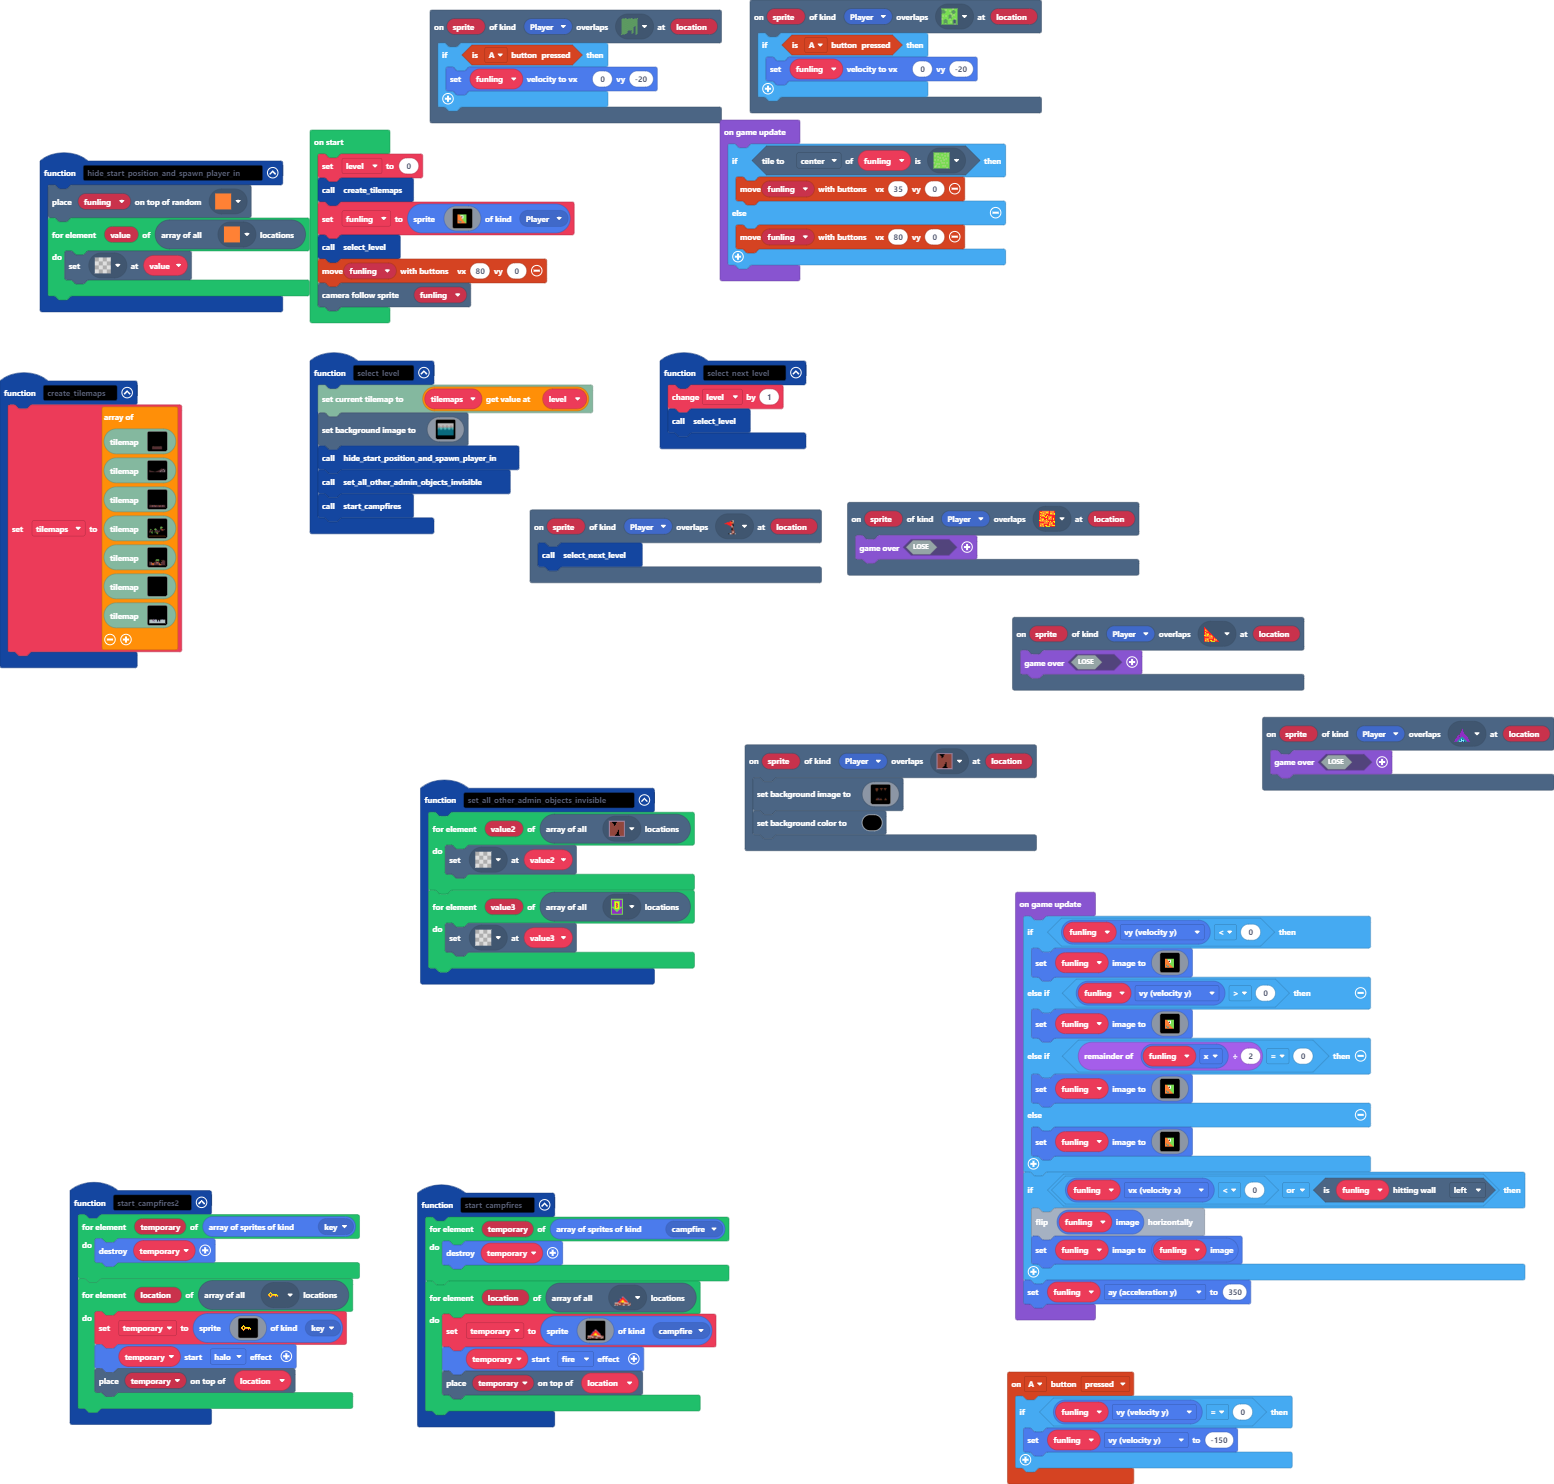
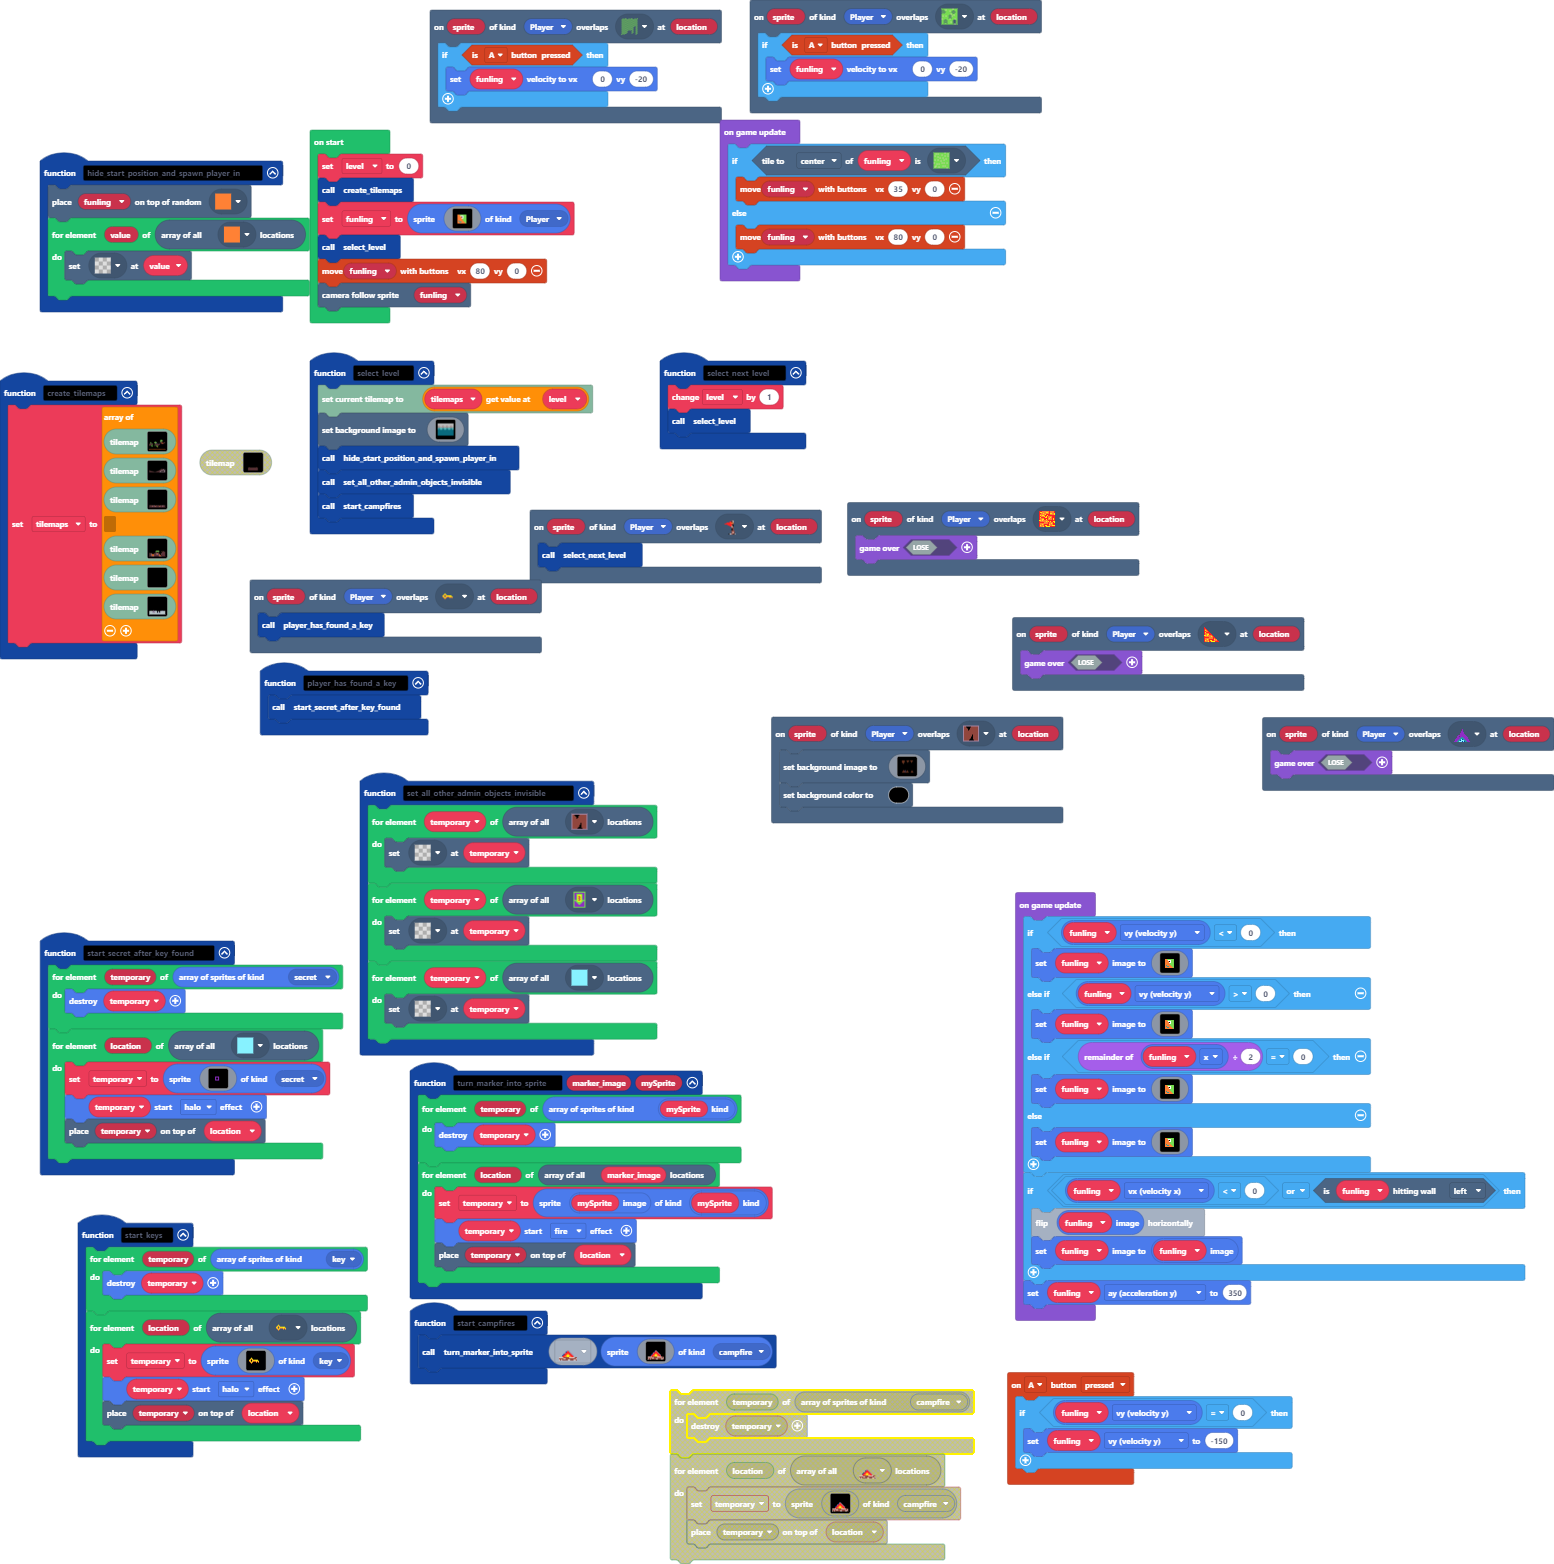
Trying to make reusable sprite code

diff --git a/tilemap.g.ts b/tilemap.g.ts
@@ -60,6 +60,8 @@ namespace myTiles {
     export const tile28 = image.ofBuffer(hex``);
     //% fixedInstance jres blockIdentity=images._tile
     export const tile29 = image.ofBuffer(hex``);
+    //% fixedInstance jres blockIdentity=images._tile
+    export const tile30 = image.ofBuffer(hex``);
 
     helpers._registerFactory("tilemap", function(name: string) {
         switch(helpers.stringTrim(name)) {
@@ -555,44 +557,6 @@ namespace myTiles {
 . . . . . . . . . . . . . . . . 
 . . . . . . . . . . . . . . . . 
 `, [myTiles.transparency16], TileScale.Sixteen);
-            case "level19":
[1 lines of base64/hex data omitted]
-...................................
-...................................
-...................................
-...................................
-...................................
-...................................
-...................................
-...................................
-...................................
-...................................
-...................................
-...................................
-...................................
-...................................
-...................................
-...................................
-...................................
-..........................2........
-..........................2........
-..........................2........
-................2....2..222...2222.
-...2.........2............22..22...
-...2.........2.............2222....
-22222222....222222222222...........
-222222.......2222222222............
-22222.........2222222..............
-22...............222...............
-...................................
-...................................
-...................................
-...................................
-...................................
-...................................
-...................................
-...................................
-`, [myTiles.transparency16,myTiles.tile3,myTiles.tile16,myTiles.tile21,myTiles.tile22,myTiles.tile23,myTiles.tile12,myTiles.tile4,myTiles.tile19,myTiles.tile25,myTiles.tile2,myTiles.tile24,myTiles.tile26], TileScale.Sixteen);
             case "level10":
[1 lines of base64/hex data omitted]
 ...................................
@@ -631,6 +595,44 @@ namespace myTiles {
 222222....222222222222....222222222
 22222222222222222222222222222222222
 `, [myTiles.transparency16,myTiles.tile3,myTiles.tile1,myTiles.tile12,myTiles.tile2,myTiles.tile8,myTiles.tile13,myTiles.tile4,myTiles.tile16,myTiles.tile19,myTiles.tile21,myTiles.tile23,myTiles.tile27,myTiles.tile28,myTiles.tile29,myTiles.tile15], TileScale.Sixteen);
+            case "level19":
[1 lines of base64/hex data omitted]
+...................................
+...................................
+...................................
+...................................
+...................................
+...................................
+...................................
+...................................
+...................................
+...................................
+...................................
+...................................
+...................................
+...................................
+...................................
+...................................
+...................................
+..........................2........
+..........................2........
+..........................2........
+................2....2..222...2222.
+...2.........2............22..22...
+...2.........2.............2222....
+22222222....222222222222...........
+222222.......2222222222............
+22222.........2222222..............
+22...............222...............
+...................................
+...................................
+...................................
+...................................
+...................................
+...................................
+...................................
+...................................
+`, [myTiles.transparency16,myTiles.tile3,myTiles.tile16,myTiles.tile21,myTiles.tile22,myTiles.tile23,myTiles.tile12,myTiles.tile4,myTiles.tile19,myTiles.tile25,myTiles.tile2,myTiles.tile24,myTiles.tile30], TileScale.Sixteen);
         }
         return null;
     })
@@ -696,6 +698,8 @@ namespace myTiles {
             case "tile28":return tile28;
             case "myTile27":
             case "tile29":return tile29;
+            case "myTile28":
+            case "tile30":return tile30;
         }
         return null;
     })

diff --git a/main.ts b/main.ts
@@ -1,6 +1,7 @@
 namespace SpriteKind {
     export const campfire = SpriteKind.create()
     export const key = SpriteKind.create()
+    export const secret = SpriteKind.create()
 }
 scene.onOverlapTile(SpriteKind.Player, assets.tile`myTile0`, function (sprite, location) {
     select_next_level()
@@ -11,55 +12,48 @@ scene.onOverlapTile(SpriteKind.Player, assets.tile`myTile19`, function (sprite, 
     }
 })
 function start_campfires () {
-    for (let temporary of sprites.allOfKind(SpriteKind.campfire)) {
-        temporary.destroy()
-    }
-    for (let location of tiles.getTilesByType(assets.tile`myTile17`)) {
-        temporary = sprites.create(img`
-            . . . . . . . . . . . . . . . . 
-            . . . . . . . . . . . . . . . . 
-            . . . . . . . . . . . . . . . . 
-            . . . . . . . . . . . . . . . . 
-            . . . . . . . . . . . . . . . . 
-            . . . . . . . . . . . . . . . . 
-            . . . . . . . . . . . . . . . . 
-            . . . . . . . b b . . . . . . . 
-            . . . . . . 8 2 2 b . . . . . . 
-            . . . . . b 2 2 2 2 b . . . . . 
-            . . . . 8 2 2 4 4 2 2 b . . . . 
-            . . . 8 2 2 4 5 5 4 2 2 b . . . 
-            . . . 2 2 4 4 5 5 4 4 2 2 . . . 
-            d d d d e e e e e d d d d d e e 
-            e e e e d d e e e e e e e e e d 
-            d e d e e e e e d d e e e d d e 
-            `, SpriteKind.campfire)
-        temporary.startEffect(effects.fire)
-        tiles.placeOnTile(temporary, location)
-    }
+    turn_marker_into_sprite(myTiles.tile19, sprites.create(img`
+        . . . . . . . . . . . . . . . . 
+        . . . . . . . . . . . . . . . . 
+        . . . . . . . . . . . . . . . . 
+        . . . . . . . . . . . . . . . . 
+        . . . . . . . . . . . . . . . . 
+        . . . . . . . . . . . . . . . . 
+        . . . . . . . . . . . . . . . . 
+        . . . . . . . b b . . . . . . . 
+        . . . . . . 8 2 2 b . . . . . . 
+        . . . . . b 2 2 2 2 b . . . . . 
+        . . . . 8 2 2 4 4 2 2 b . . . . 
+        . . . 8 2 2 4 5 5 4 2 2 b . . . 
+        . . . 2 2 4 4 5 5 4 4 2 2 . . . 
+        d d d d e e e e e d d d d d e e 
+        e e e e d d e e e e e e e e e d 
+        d e d e e e e e d d e e e d d e 
+        `, SpriteKind.campfire))
 }
-function start_campfires2 () {
-    for (let temporary of sprites.allOfKind(SpriteKind.key)) {
+function start_secret_after_key_found () {
+    for (let temporary of sprites.allOfKind(SpriteKind.secret)) {
         temporary.destroy()
     }
-    for (let location of tiles.getTilesByType(assets.tile`myTile14`)) {
+    for (let location of tiles.getTilesByType(assets.tile`myTile28`)) {
         temporary = sprites.create(img`
             . . . . . . . . . . . . . . . . 
             . . . . . . . . . . . . . . . . 
             . . . . . . . . . . . . . . . . 
             . . . . . . . . . . . . . . . . 
             . . . . . . . . . . . . . . . . 
-            . . . 5 . . . . . . . . . . . . 
-            . . 5 4 5 . . . . . . . . . . . 
-            . 5 4 . 4 5 5 5 5 5 . . . . . . 
-            . 4 5 . 5 4 4 4 5 4 5 . . . . . 
-            . . 4 5 4 . . . 4 . 4 . . . . . 
-            . . . 4 . . . . . . . . . . . . 
+            . . . . . . . . . . . . . . . . 
+            . . . . . a a a a . . . . . . . 
+            . . . . . a . . a . . . . . . . 
+            . . . . . a . . a . . . . . . . 
+            . . . . . a a a a . . . . . . . 
             . . . . . . . . . . . . . . . . 
             . . . . . . . . . . . . . . . . 
             . . . . . . . . . . . . . . . . 
             . . . . . . . . . . . . . . . . 
             . . . . . . . . . . . . . . . . 
-            `, SpriteKind.key)
+            . . . . . . . . . . . . . . . . 
+            `, SpriteKind.secret)
         temporary.startEffect(effects.halo)
         tiles.placeOnTile(temporary, location)
     }
@@ -203,12 +197,21 @@ function select_next_level () {
     level += 1
     select_level()
 }
+function turn_marker_into_sprite (marker_image: Image, mySprite: Sprite) {
+    for (let temporary of sprites.allOfKind(mySprite.kind())) {
+        temporary.destroy()
+    }
+    for (let location of tiles.getTilesByType(marker_image)) {
+        temporary = sprites.create(mySprite.image, mySprite.kind())
+        temporary.startEffect(effects.fire)
+        tiles.placeOnTile(temporary, location)
+    }
+}
 function create_tilemaps () {
     tilemaps = [
-    tiles.createMap(tilemap`level2`),
+    tiles.createMap(tilemap`level19`),
     tiles.createMap(tilemap`level5`),
     tiles.createMap(tilemap`level13`),
-    tiles.createMap(tilemap`level19`),
     tiles.createMap(tilemap`level10`),
     tiles.createMap(tilemap`level17`),
     tiles.createMap(tilemap`level14`)
@@ -217,6 +220,36 @@ function create_tilemaps () {
 scene.onOverlapTile(SpriteKind.Player, assets.tile`myTile18`, function (sprite, location) {
     game.over(false)
 })
+function start_keys () {
+    for (let temporary of sprites.allOfKind(SpriteKind.key)) {
+        temporary.destroy()
+    }
+    for (let location of tiles.getTilesByType(assets.tile`myTile14`)) {
+        temporary = sprites.create(img`
+            . . . . . . . . . . . . . . . . 
+            . . . . . . . . . . . . . . . . 
+            . . . . . . . . . . . . . . . . 
+            . . . . . . . . . . . . . . . . 
+            . . . . . . . . . . . . . . . . 
+            . . . 5 . . . . . . . . . . . . 
+            . . 5 4 5 . . . . . . . . . . . 
+            . 5 4 . 4 5 5 5 5 5 . . . . . . 
+            . 4 5 . 5 4 4 4 5 4 5 . . . . . 
+            . . 4 5 4 . . . 4 . 4 . . . . . 
+            . . . 4 . . . . . . . . . . . . 
+            . . . . . . . . . . . . . . . . 
+            . . . . . . . . . . . . . . . . 
+            . . . . . . . . . . . . . . . . 
+            . . . . . . . . . . . . . . . . 
+            . . . . . . . . . . . . . . . . 
+            `, SpriteKind.key)
+        temporary.startEffect(effects.halo)
+        tiles.placeOnTile(temporary, location)
+    }
+}
+function player_has_found_a_key () {
+    start_secret_after_key_found()
+}
 function hide_start_position_and_spawn_player_in () {
     tiles.placeOnRandomTile(funling, assets.tile`myTile2`)
     for (let value of tiles.getTilesByType(assets.tile`myTile2`)) {
@@ -352,15 +385,21 @@ function select_level () {
     start_campfires()
 }
 function set_all_other_admin_objects_invisible () {
-    for (let value2 of tiles.getTilesByType(assets.tile`myTile7`)) {
-        tiles.setTileAt(value2, assets.tile`transparency16`)
+    for (let temporary of tiles.getTilesByType(assets.tile`myTile7`)) {
+        tiles.setTileAt(temporary, assets.tile`transparency16`)
     }
-    for (let value3 of tiles.getTilesByType(assets.tile`myTile9`)) {
-        tiles.setTileAt(value3, assets.tile`transparency16`)
+    for (let temporary of tiles.getTilesByType(assets.tile`myTile9`)) {
+        tiles.setTileAt(temporary, assets.tile`transparency16`)
+    }
+    for (let temporary of tiles.getTilesByType(assets.tile`myTile28`)) {
+        tiles.setTileAt(temporary, assets.tile`transparency16`)
     }
 }
 scene.onOverlapTile(SpriteKind.Player, assets.tile`myTile10`, function (sprite, location) {
     game.over(false)
+})
+scene.onOverlapTile(SpriteKind.Player, assets.tile`myTile14`, function (sprite, location) {
+    player_has_found_a_key()
 })
 scene.onOverlapTile(SpriteKind.Player, assets.tile`myTile11`, function (sprite, location) {
     game.over(false)
